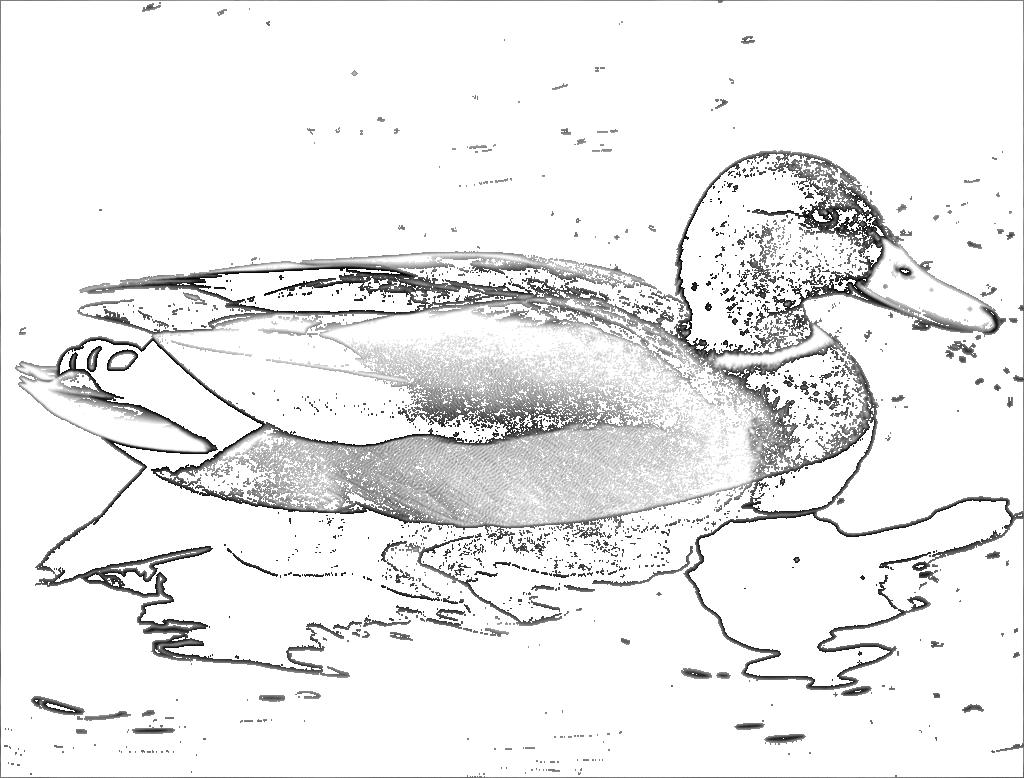
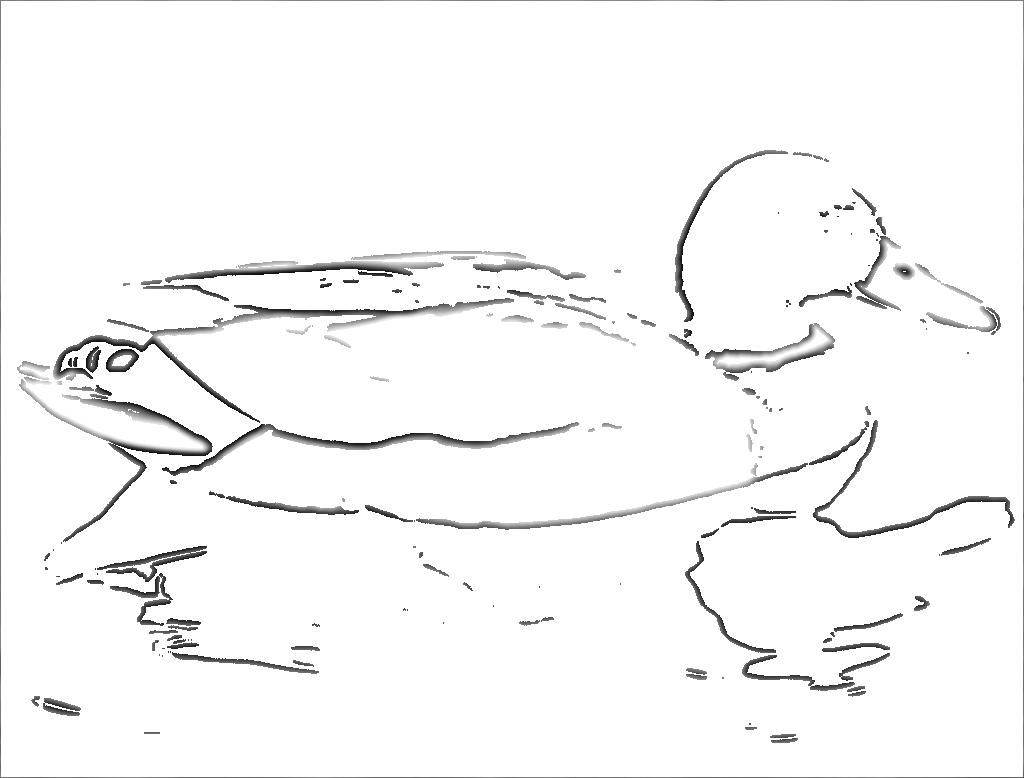
Changed smoothing function.

diff --git a/src/detector.py b/src/detector.py
@@ -25,7 +25,7 @@ class DummyDetector(Detector):
 	def naive_smoother(img):
 		# type: (Image) -> Image
 		"""Go through the image with a naive smoother"""
-		return img.filter(ImageFilter.SMOOTH)
+		return img.filter(ImageFilter.GaussianBlur())
 	
 	@staticmethod
 	def detect(img):
